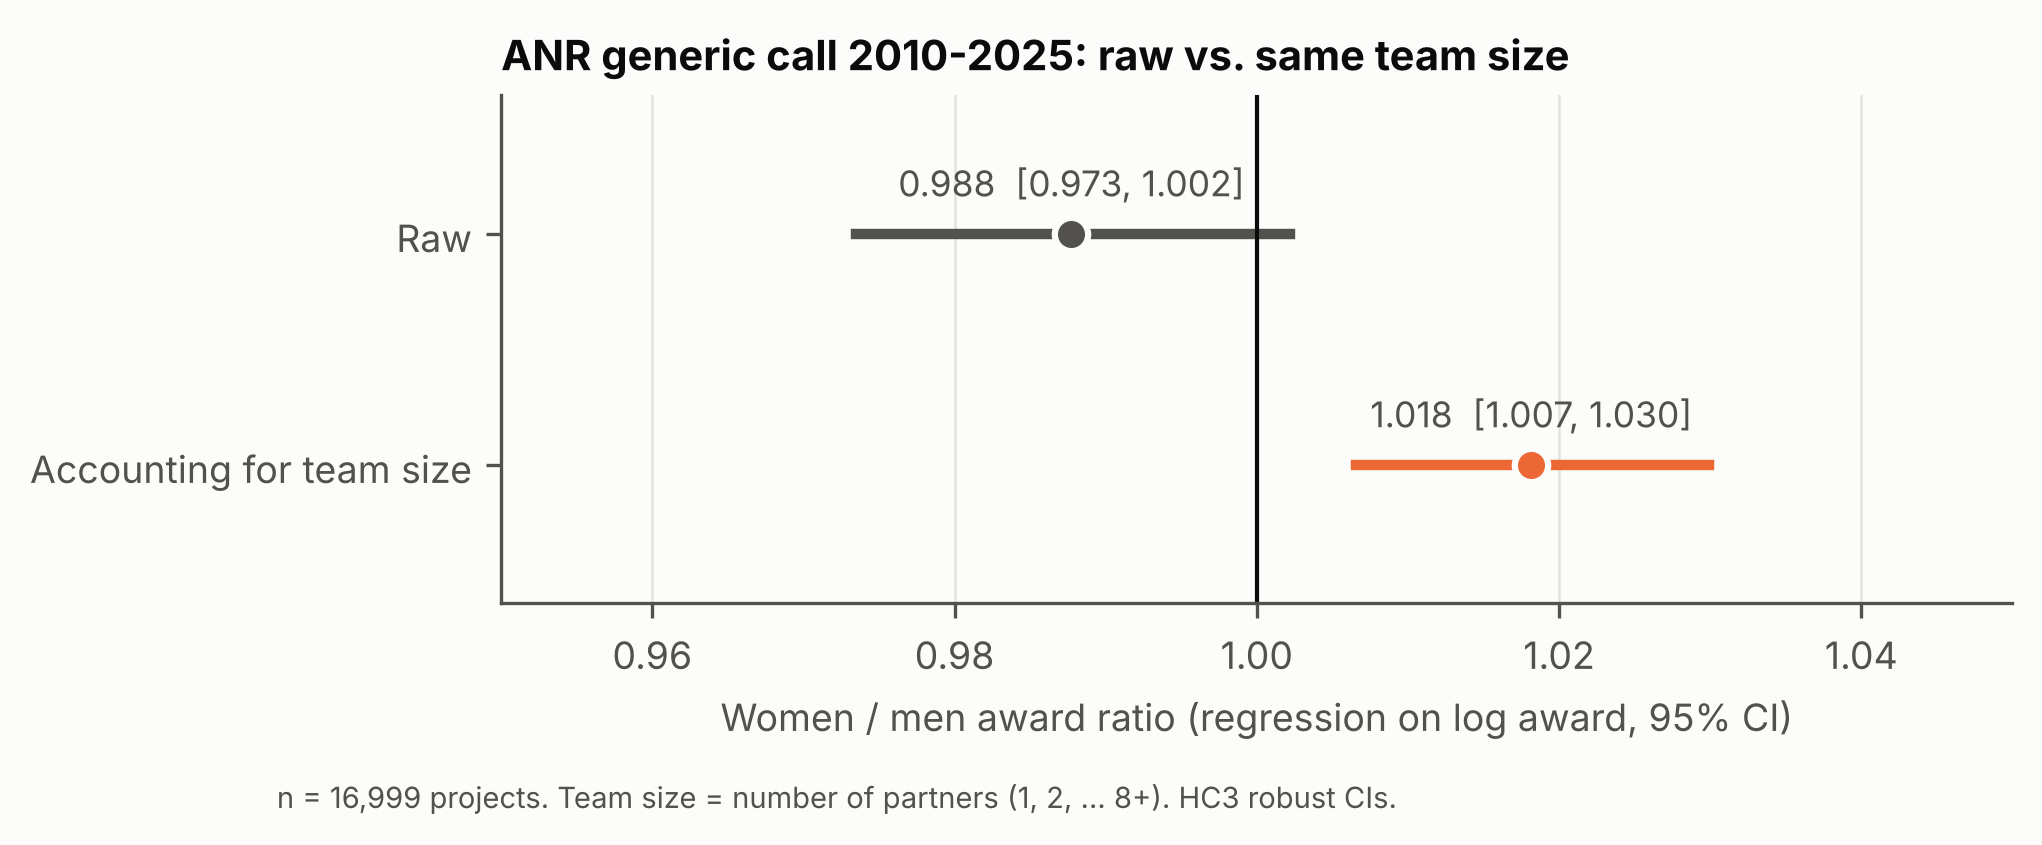
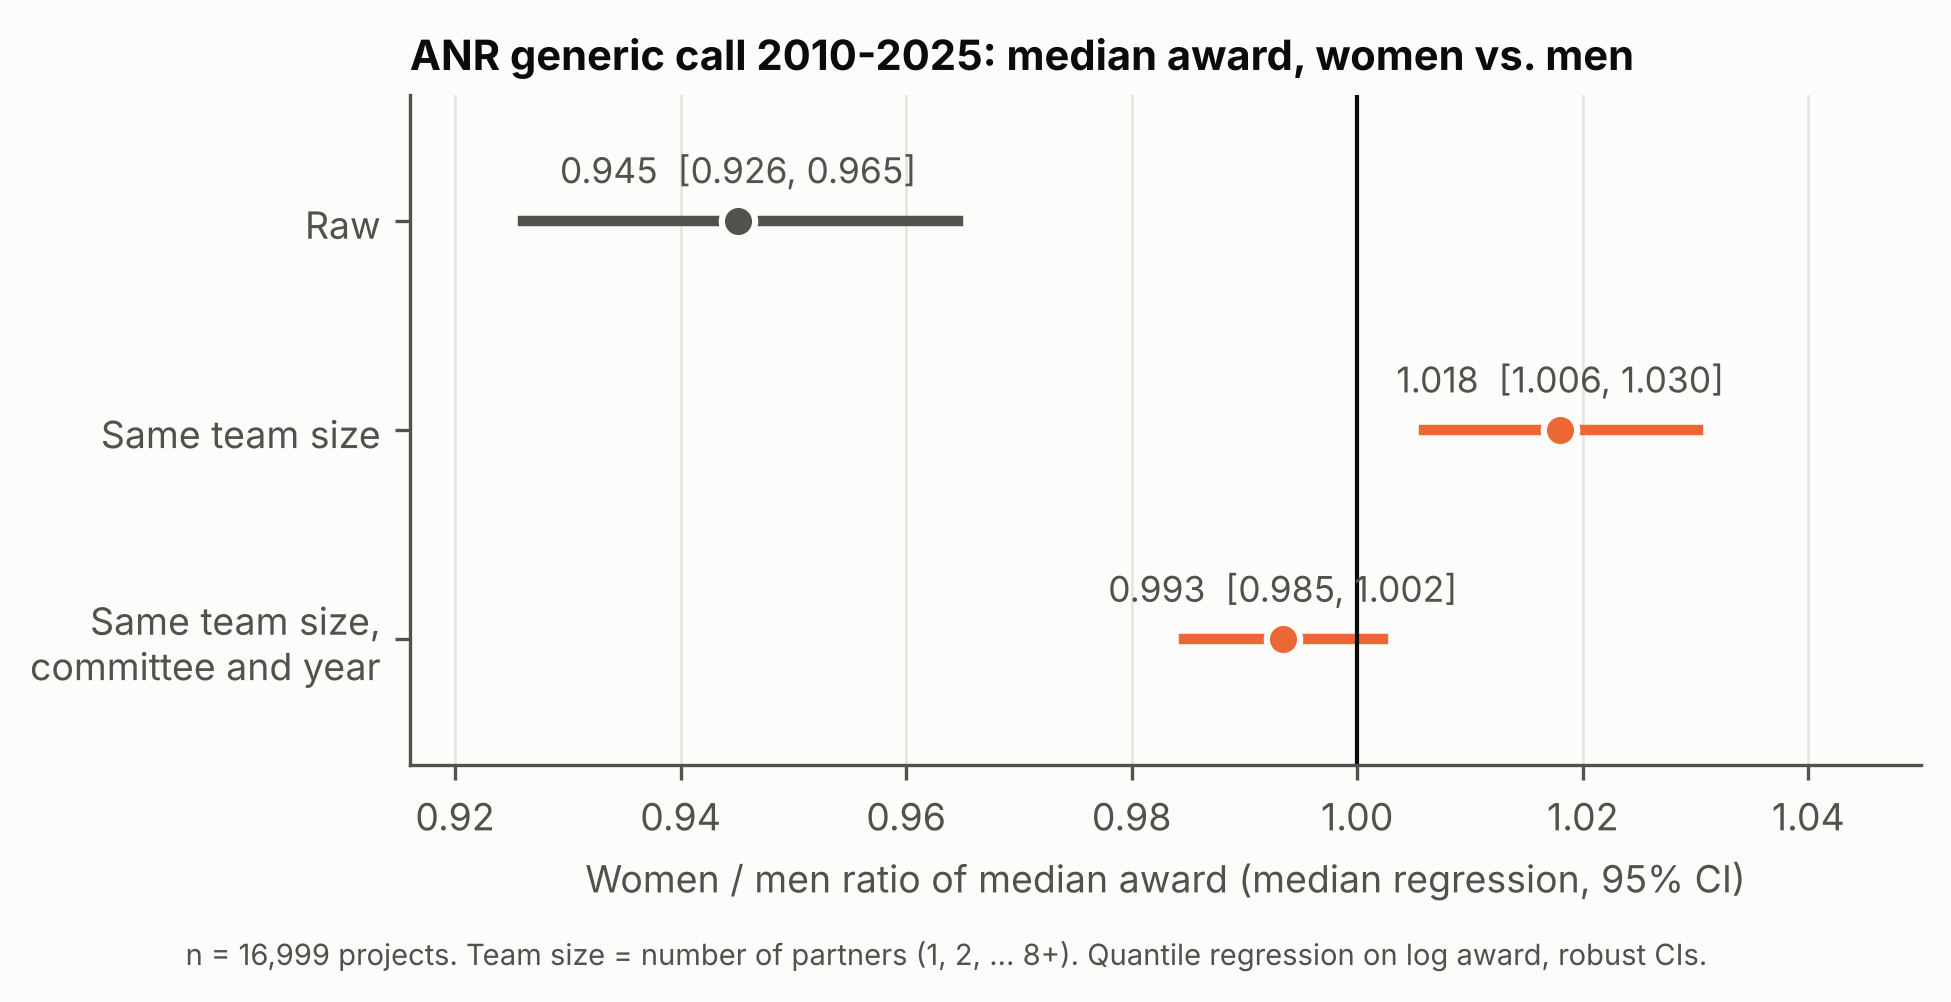
Use median regression for raw/team-size figure; add committee + year row
Claude-Session: https://claude.ai/code/session_01PAzkXMGCXxjV7L2RQiVK7i

diff --git a/anr-gender/analysis.py b/anr-gender/analysis.py
@@ -526,36 +526,64 @@ def by_domain_committee(a):
     return t, cells
 
 
+def fit_median(df, formula):
+    """Median (quantile 0.5) regression of `formula`; returns the `female` effect as a % difference.
+
+    On log award, exp(coef) is the women/men ratio of conditional medians (the median commutes with
+    log). Collinear fixed-effect columns are removed first (pivoted QR, `female` kept). CIs use
+    statsmodels' robust sandwich (Hall-Sheather bandwidth)."""
+    import patsy
+    import scipy.linalg as sla
+    import statsmodels.api as sm
+    y, X = patsy.dmatrices(formula, data=df.reset_index(drop=True), return_type="dataframe")
+    cols = list(X.columns)
+    fi = cols.index("female")
+    order = [fi] + [i for i in range(len(cols)) if i != fi]
+    Xo = X.values[:, order]
+    _, r, piv = sla.qr(Xo, mode="economic", pivoting=True)
+    d = np.abs(np.diag(r))
+    keep = sorted(piv[: int((d > 1e-9 * d.max()).sum())])
+    m = sm.QuantReg(y.iloc[:, 0].values, Xo[:, keep]).fit(q=0.5, max_iter=5000)
+    j = keep.index(0)
+    b_, se = m.params[j], m.bse[j]
+    return {"pct": np.expm1(b_) * 100, "lo": np.expm1(b_ - 1.96 * se) * 100, "hi": np.expm1(b_ + 1.96 * se) * 100,
+            "p": m.pvalues[j], "n": int(m.nobs)}
+
+
 def raw_vs_team_size(a):
-    """Two regressions only: raw (log award ~ female) and adjusted for team size (number of partners)."""
+    """Three median regressions: raw; same team size; same team size + committee + year."""
     d = a[a.gender.isin(["F", "M"])].copy()
     d["female"] = (d.gender == "F").astype(int)
     d["log_amt"] = np.log(d.amount)
     d["np_cap"] = d.n_partners.clip(upper=8).astype(int)
-    rows = [{"model": "Raw", **fit(d, "log_amt ~ female")},
-            {"model": "Accounting for team size", **fit(d, "log_amt ~ female + C(np_cap)")}]
+    rows = [{"model": "Raw", **fit_median(d, "log_amt ~ female")},
+            {"model": "Same team size", **fit_median(d, "log_amt ~ female + C(np_cap)")},
+            {"model": "Same team size,\ncommittee and year",
+             **fit_median(d, "log_amt ~ female + C(np_cap) + C(committee) + C(year)")}]
     t = pd.DataFrame(rows)
     for c in ("pct", "lo", "hi"):
         t["ratio_" + c] = 1 + t[c] / 100
-    t.to_csv(TAB / "2b_raw_vs_team_size.csv", index=False)
+    t.assign(model=t.model.str.replace("\n", " ")).to_csv(TAB / "2b_raw_vs_team_size.csv", index=False)
 
-    fig, ax = plt.subplots(figsize=(6.5, 2.2))
-    y = [1, 0]
-    for yi, (_, r), col in zip(y, t.iterrows(), (INK2, C_F)):
+    fig, ax = plt.subplots(figsize=(6.5, 2.9))
+    y = [2, 1, 0]
+    for yi, (_, r), col in zip(y, t.iterrows(), (INK2, C_F, C_F)):
         ax.plot([r.ratio_lo, r.ratio_hi], [yi, yi], color=col, lw=2.5)
         ax.plot(r.ratio_pct, yi, "o", color=col, ms=8, mec="#fcfcfb", mew=1.5)
         ax.annotate(f"{r.ratio_pct:.3f}  [{r.ratio_lo:.3f}, {r.ratio_hi:.3f}]", (r.ratio_pct, yi),
                     xytext=(0, 9), textcoords="offset points", ha="center", fontsize=8.5, color=INK2)
     ax.axvline(1, color=INK, lw=1)
     ax.set_yticks(y, t.model)
-    ax.set_ylim(-0.6, 1.6)
-    ax.set_xlim(0.95, 1.05)
-    ax.set_xlabel("Women / men award ratio (regression on log award, 95% CI)")
-    ax.set_title("ANR generic call 2010-2025: raw vs. same team size", loc="left")
+    ax.set_ylim(-0.6, 2.6)
+    lo = min(0.93, t.ratio_lo.min() - 0.01)
+    hi = max(1.05, t.ratio_hi.max() + 0.01)
+    ax.set_xlim(lo, hi)
+    ax.set_xlabel("Women / men ratio of median award (median regression, 95% CI)")
+    ax.set_title("ANR generic call 2010-2025: median award, women vs. men", loc="left")
     ax.grid(axis="y", visible=False)
-    fig.text(0.01, -0.2, f"n = {t.n.iloc[0]:,} projects. Team size = number of partners (1, 2, ... 8+). "
-             "HC3 robust CIs.", fontsize=7, color=INK2)
-    save_fig(fig, "fig2_raw_vs_team_size", t)
+    fig.text(0.01, -0.12, f"n = {t.n.iloc[0]:,} projects. Team size = number of partners (1, 2, ... 8+). "
+             "Quantile regression on log award, robust CIs.", fontsize=7, color=INK2)
+    save_fig(fig, "fig2_raw_vs_team_size", t.assign(model=t.model.str.replace("\n", " ")))
     return t
 
 

diff --git a/anr-gender/report.md b/anr-gender/report.md
@@ -117,18 +117,19 @@ Bootstrap 95% CIs, 2,000 resamples, drawn separately within the women's and men'
 
 The pooled 5.5% gap reverses inside instruments (Simpson's paradox). Women make up 37% of Mono-team coordinators but 26–31% of the collaborative instruments, and Mono-team grants are the smallest. Women's slightly higher Mono-team median goes away once committee is controlled (next table). Women in that group are concentrated in biology committees, which have larger budgets.
 
-### Raw vs. same team size (simplest regression view)
+### Median award: raw, same team size, then committee and year as well
 
 ![Raw vs team size](figures/fig2_raw_vs_team_size.png)
 
-Two regressions, nothing else controlled: `log(award) ~ female` and `log(award) ~ female + C(partners)`.
+Median (quantile 0.5) regressions of log award. exp(coef) is the women/men ratio of medians.
 
-| Model | Women / men ratio [95% CI] |
+| Model | Women / men median ratio [95% CI] |
 | --- | --- |
-| Raw | 0.988 [0.973, 1.002] |
-| Same team size (number of partners) | 1.018 [1.007, 1.030] |
+| Raw | 0.945 [0.926, 0.965] |
+| Same team size (number of partners) | 1.018 [1.006, 1.030] |
+| Same team size, committee and year | 0.993 [0.985, 1.002] |
 
-A log regression compares geometric means, so the raw ratio (0.988) is not the raw median ratio (0.945). With team size fixed, women's awards are 1.8% higher. That small advantage goes away once committee and year are added as well (−0.6%, model B below): women are more often in fields with larger budgets.
+The raw 5.5% gap reverses once team size is held fixed: women lead more single-team grants, which are smaller. The small advantage for women at equal team size then goes away when committee and year are added too, because women are more often in committees with larger budgets.
 
 ### 4. Regression: log(award) on female plus fixed effects, HC3 robust SEs
 
